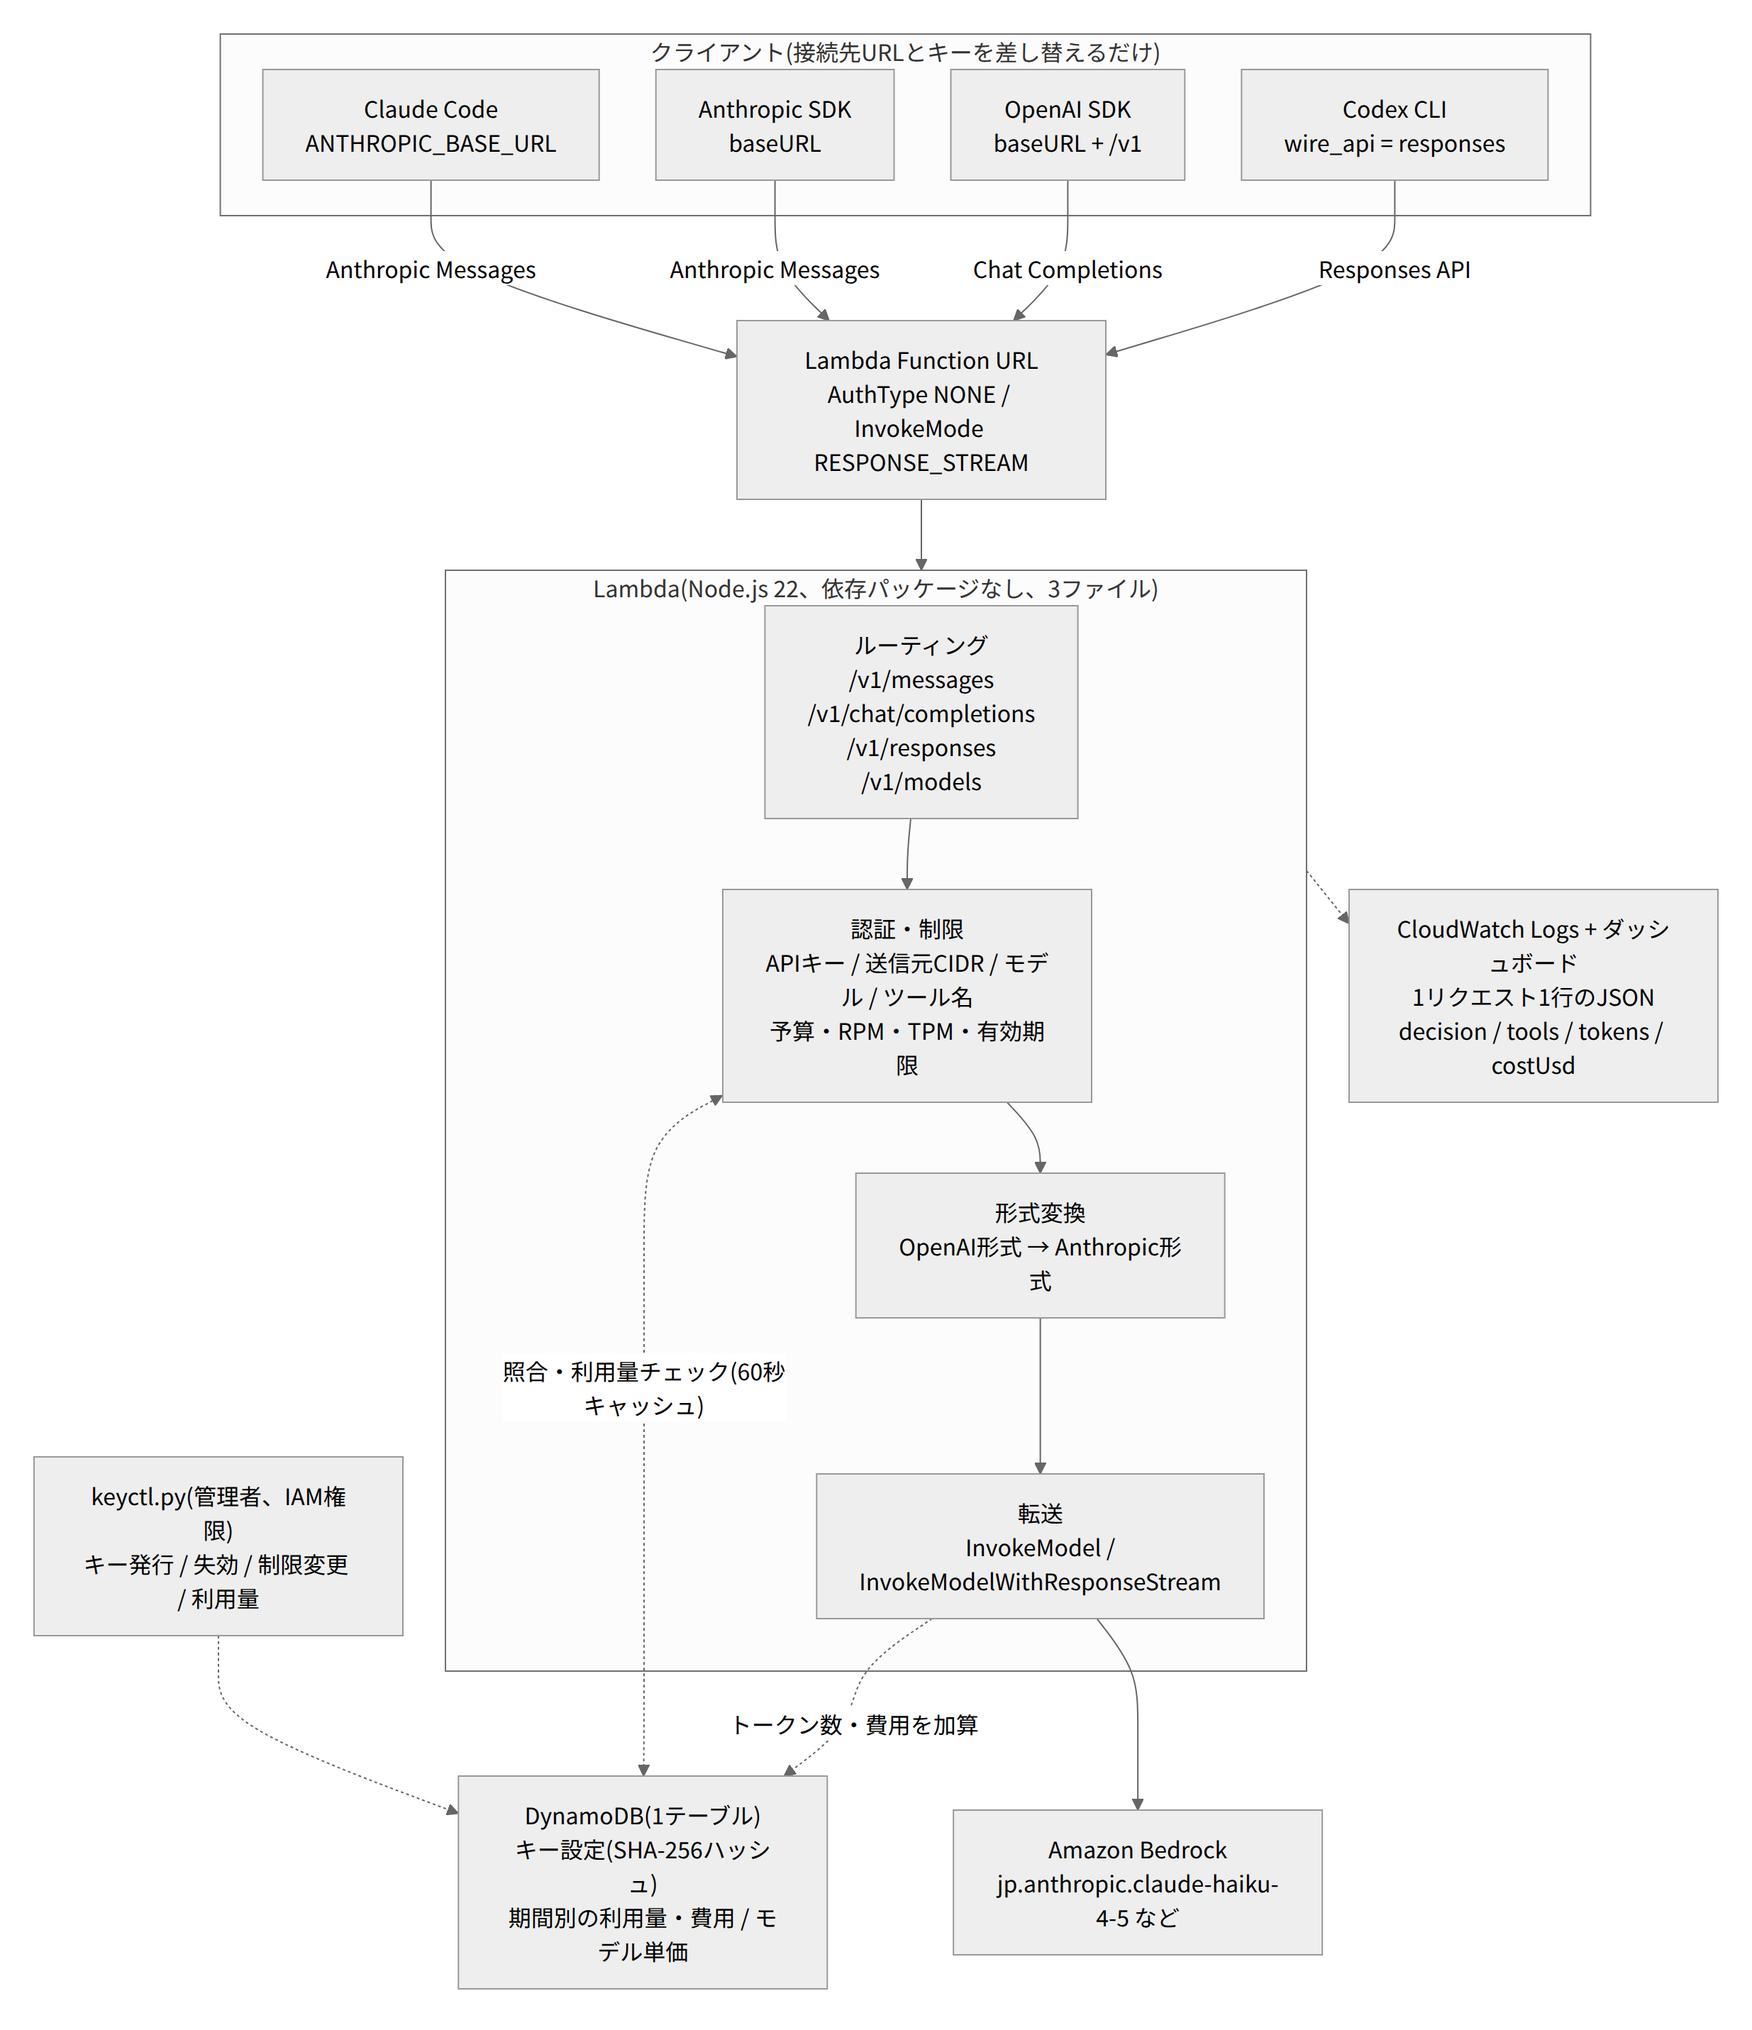
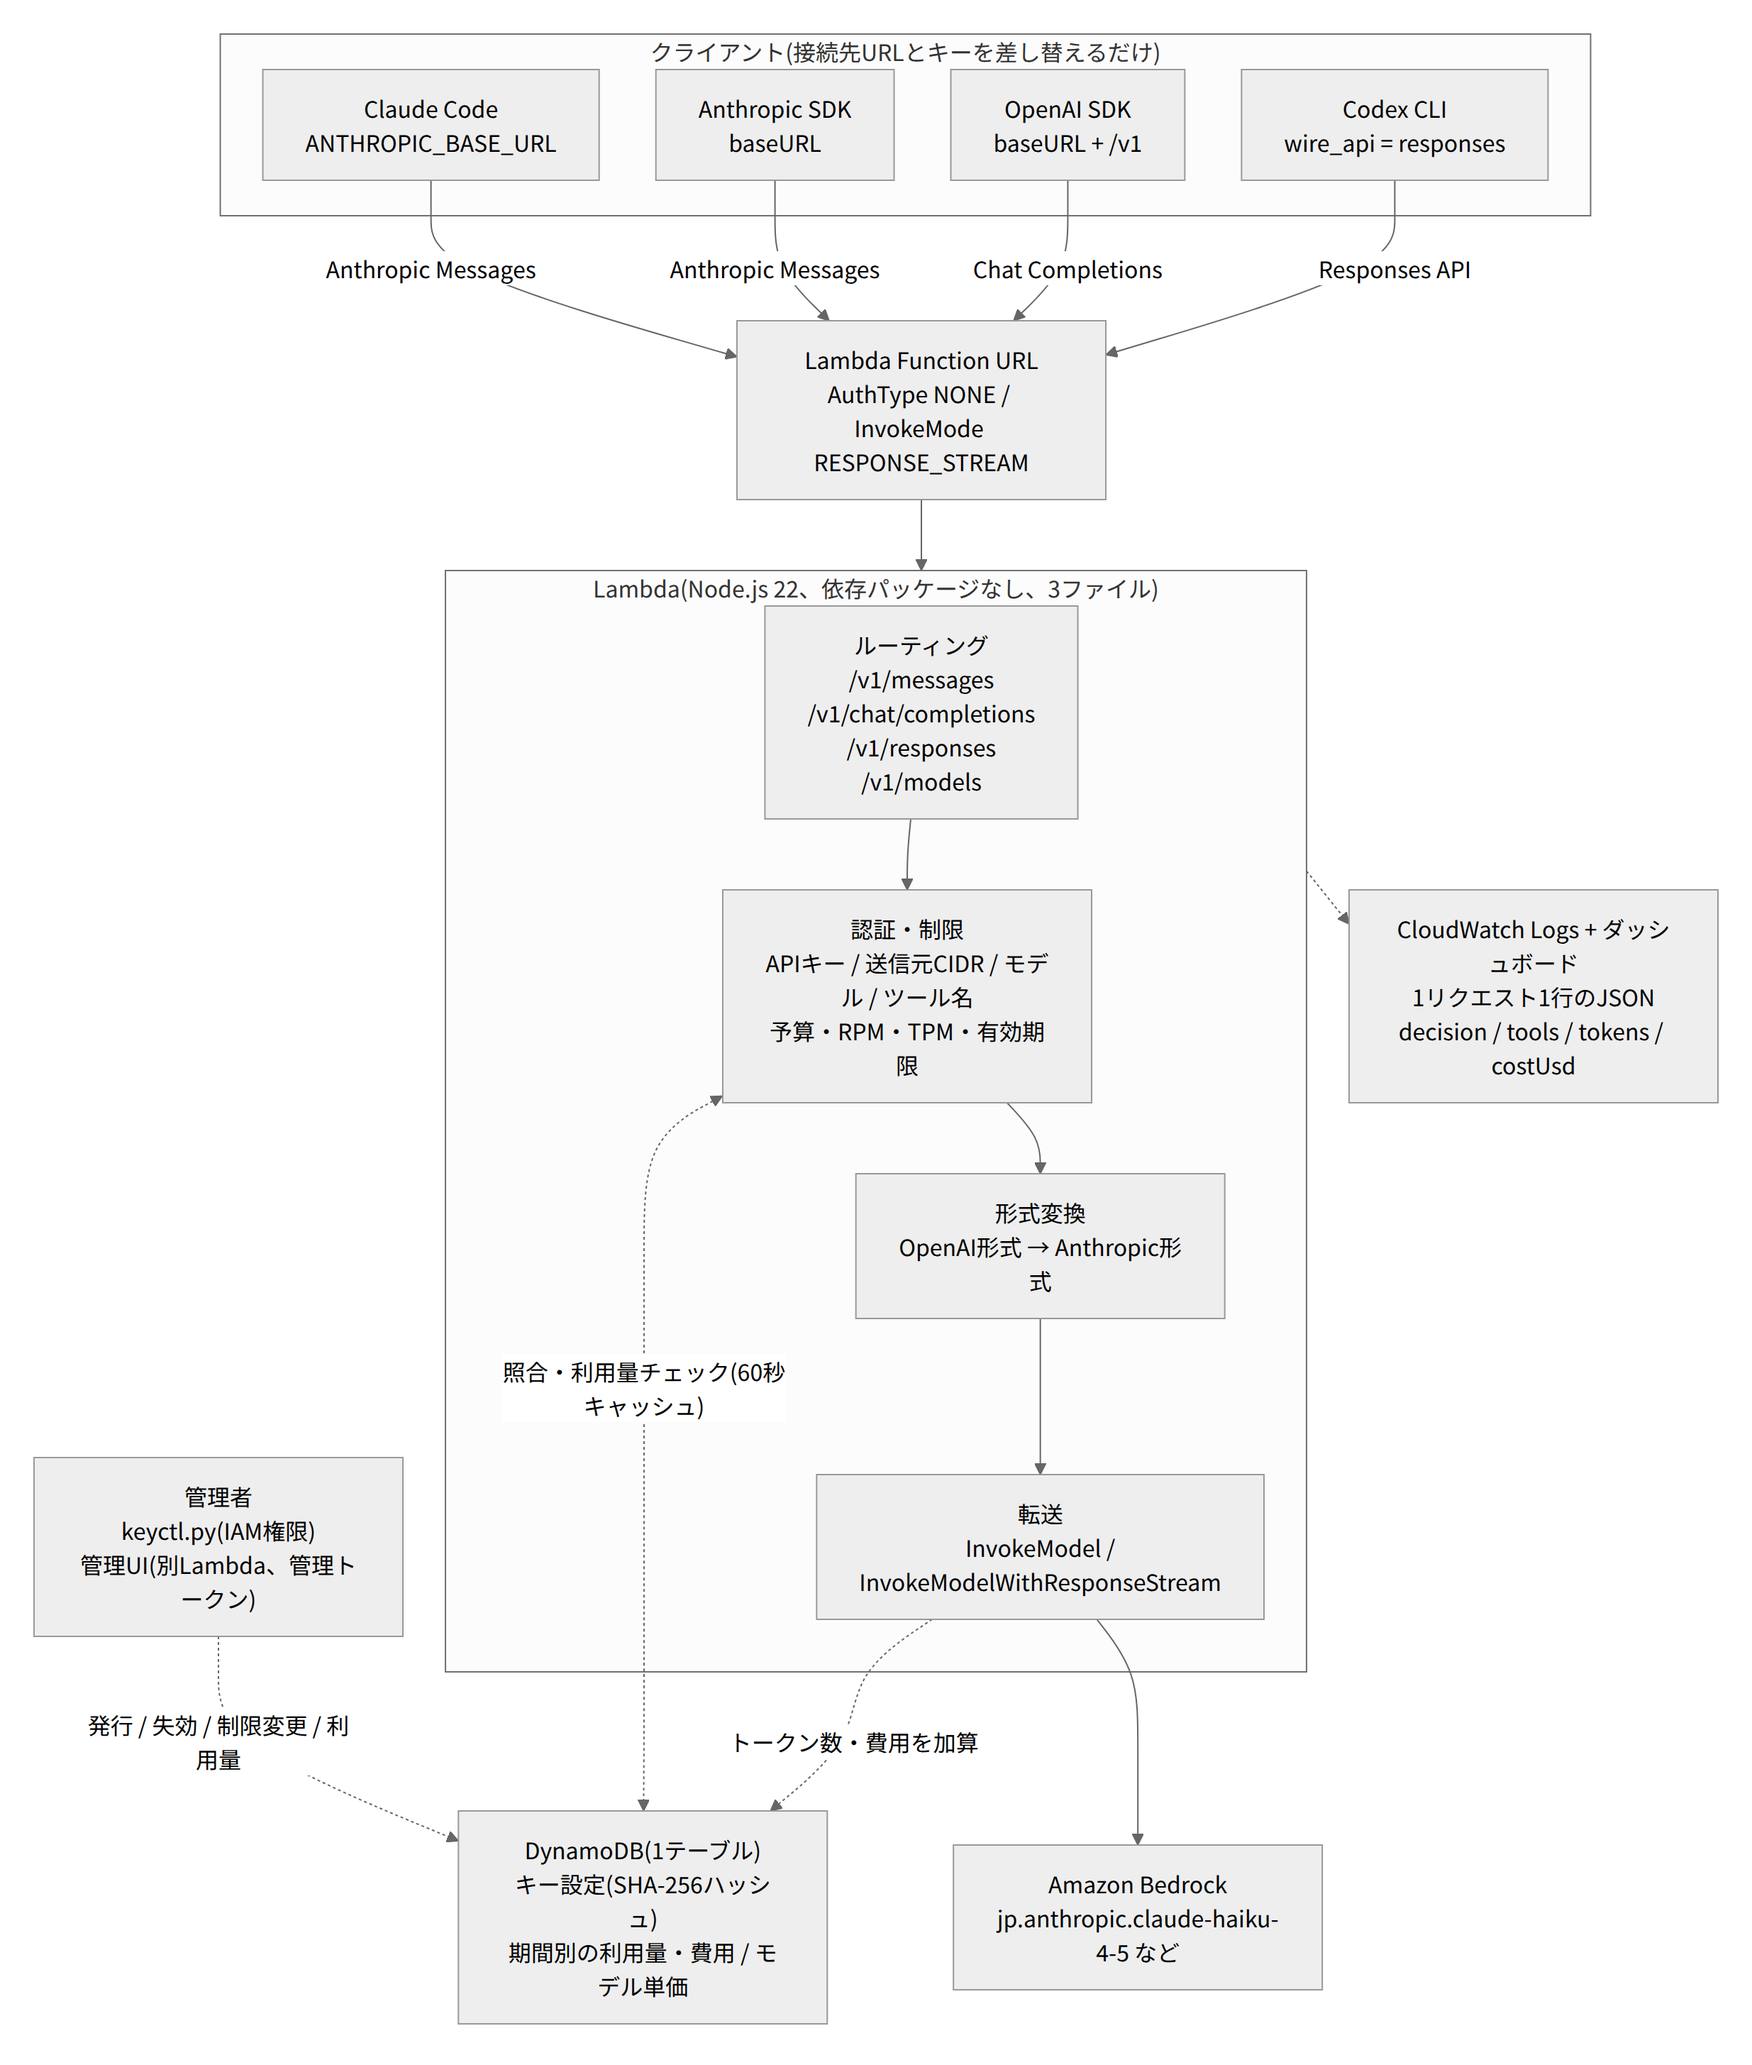
Add admin UI (separate Lambda + Function URL): key issuance, limits, usage, prices
- admin.mjs: JSON API with admin token (SHA-256, constant-time compare), optional source CIDR
- admin-ui.mjs: single-file HTML, no framework/build/CDN
- terraform/admin.tf: Lambda, Function URL, IAM (PutItem/DeleteItem only here)
- keyctl.py admin-token; README and diagrams updated

diff --git a/keyctl.py b/keyctl.py
@@ -12,6 +12,7 @@
   keyctl.py usage <keyId> [--period month#2026-10 | day#2026-10-30]
   keyctl.py set-prices  modelId=inputPerM:outputPerM[,...]     例: jp.anthropic.claude-haiku-4-5-20251001-v1:0=1.1:5.5
   keyctl.py import keys.json        旧形式(平文キー → 設定)の JSON を取り込む(同じ平文キーのまま使える)
+  keyctl.py admin-token             管理 UI 用のトークンを発行(ハッシュを保存。平文はこの 1 回だけ表示。再実行で置き換え)
 
 共通オプション: --table llm-proxy-keys --region ap-northeast-1 --profile NAME
 """
@@ -162,6 +163,12 @@ def cmd_import(a):
         if cfg.get("cidrs"): meta["cidrs"] = cfg["cidrs"]
         put_meta(a, meta); print(f"imported {meta['keyId']} ({meta['name']})")
 
+def cmd_admin_token(a):
+    token = "llmpa_" + secrets.token_hex(24)
+    aws(["put-item", "--table-name", a.table, "--item", json.dumps({"pk": {"S": "CONFIG"}, "sk": {"S": "ADMIN"}, "tokenHash": {"S": hash_key(token)}, "updatedAt": {"N": str(int(time.time()))}})], a)
+    print("admin token set (shown once, store it securely). 管理 UI のログイン画面に貼り付ける:")
+    print(f"  {token}")
+
 def main():
     ap = argparse.ArgumentParser(description=__doc__, formatter_class=argparse.RawDescriptionHelpFormatter)
     ap.add_argument("--table", default="llm-proxy-keys"); ap.add_argument("--region"); ap.add_argument("--profile")
@@ -180,6 +187,7 @@ def main():
     p = sub.add_parser("usage"); p.add_argument("key_id"); p.add_argument("--period"); p.set_defaults(fn=cmd_usage)
     p = sub.add_parser("set-prices"); p.add_argument("prices"); p.set_defaults(fn=cmd_set_prices)
     p = sub.add_parser("import"); p.add_argument("file"); p.set_defaults(fn=cmd_import)
+    sub.add_parser("admin-token").set_defaults(fn=cmd_admin_token)
     a = ap.parse_args(); a.fn(a)
 
 if __name__ == "__main__":

diff --git a/README.md b/README.md
@@ -11,10 +11,13 @@ Amazon Bedrock に転送する簡易 LLM プロキシです。Claude Code、Anth
 - リクエストごとにモデル単価から費用を計算して DynamoDB に集計(分・日・月)。ログにも `costUsd` を出す
 - 1 リクエスト 1 行の JSON ログを CloudWatch Logs に出力(キー名、モデル、ツール名、トークン数、判定理由)
 - 利用状況の可視化: CloudWatch ダッシュボード(Terraform で作成)と、Markdown の利用レポートを出す `usage-report.py`
+- 管理 UI: キーの発行・編集・無効化・失効、キー別の今月の利用量と推定費用、モデル単価の編集。別 Lambda + Function URL が HTML と JSON API を返す(フレームワーク・ビルド・CDN なし)
 
 ![構成図](docs/architecture.png)
 
 ![利用状況ダッシュボード](docs/dashboard.png)
+
+![管理 UI](docs/admin-ui.png)
 
 設計と検証の経緯は Zenn の記事「Lambda+Bedrockで作る簡易LLMプロキシ(認証・制限・ログ)」にまとめています。
 
@@ -27,7 +30,8 @@ Amazon Bedrock に転送する簡易 LLM プロキシです。Claude Code、Anth
 | `terraform/` | Lambda、Function URL、IAM、DynamoDB(キーと利用量)、CloudWatch Logs、利用状況ダッシュボードの定義 |
 | `usage-report.py` | Logs Insights からキー別・モデル別の利用状況と拒否理由を集計して Markdown 出力 |
 | `src/keys.mjs` | API キーの照合(SHA-256)、利用量制限の判定、費用計算、利用量の記録(DynamoDB) |
-| `keyctl.py` | API キーの発行・一覧・更新・無効化・失効・利用量表示・モデル単価の設定・旧 JSON の取り込み |
+| `keyctl.py` | API キーの発行・一覧・更新・無効化・失効・利用量表示・モデル単価の設定・旧 JSON の取り込み・管理 UI トークンの発行 |
+| `src/admin.mjs` / `src/admin-ui.mjs` | 管理 UI(JSON API と単一ファイルの HTML)。管理トークン(SHA-256 ハッシュ保存)と任意の送信元 CIDR で保護 |
 | `keys.example.json` | 旧形式(平文キー → 設定)の例。`keyctl.py import` で取り込める |
 | `cost-estimate.py` | 月額ランニングコストの試算スクリプト(単価と前提はファイル内に記載) |
 | `docs/` | 構成図・シーケンス図(PNG と Mermaid ソース) |
@@ -71,6 +75,8 @@ terraform apply -var 'allowed_betas=context-management-2025-06-27,interleaved-th
 | `log_retention_days` | `30` | CloudWatch Logs の保持日数 |
 | `memory_size` / `timeout` | `256` / `300` | Lambda のメモリ(MB)とタイムアウト(秒) |
 | `create_dashboard` | `true` | 利用状況ダッシュボードを作るか |
+| `create_admin_ui` | `true` | 管理 UI(別 Lambda + Function URL)を作るか |
+| `admin_cidrs` | 空 | 管理 UI にアクセスできる送信元 CIDR(カンマ区切り)。トークン認証は常に必要 |
 
 ## API キーの発行と利用量制限(`keyctl.py`)
 
@@ -122,6 +128,31 @@ python3 keyctl.py import keys.json          # 旧形式の JSON(平文キー →
 - 渡されたツール名(`tools.0`〜`tools.4`、先頭 5 個の組み合わせ)
 
 アカウント内のカスタムダッシュボードは 3 枚まで無料、4 枚目以降は 1 枚 $3/月。ウィジェットの描画時に Logs Insights のスキャン課金がかかる(東京: $0.0076/GB)。
+
+### 管理 UI(`<name>-admin`)
+
+`terraform output admin_url` の URL をブラウザで開き、`keyctl.py admin-token` で発行した管理トークンを貼り付けます。トークンは sessionStorage にだけ保存され、タブを閉じると消えます。
+
+```bash
+python3 keyctl.py admin-token   # 平文はこのとき 1 回だけ表示。再実行で置き換え
+```
+
+- キー一覧: 状態(有効 / 無効 / 期限切れ)、モデル、ツール制限、CIDR、制限、今月のリクエスト数・トークン数・推定費用、予算消化率、有効期限
+- キーの発行(平文は発行直後に 1 回だけ表示)、編集、無効化 / 有効化、失効
+- キーごとの期間別利用量(日・月)
+- モデル単価の編集
+
+管理 UI の Lambda は、プロキシ本体とは別の IAM ロールで動きます(本体は GetItem / BatchGetItem / UpdateItem のみ、管理 UI は Scan / Query / PutItem / DeleteItem も持つ)。
+公開 URL なので、`admin_cidrs` でオフィスや VPN の送信元に絞ることを推奨します。より強い認証が必要なら、Function URL を `AWS_IAM` にして CloudFront + Lambda@Edge や Cognito を前に置く構成に差し替えられます。
+
+JSON API(`Authorization: Bearer <admin token>`):
+
+| メソッド | パス | 内容 |
+| --- | --- | --- |
+| GET | `/api/keys` | 一覧 + 今月の利用量 |
+| POST | `/api/keys` | 発行(応答に平文 `key`) |
+| GET / PATCH / DELETE | `/api/keys/{keyId}` | 詳細(期間別利用量)/ 更新 / 失効 |
+| GET / PUT | `/api/prices` | モデル単価 |
 
 ### 利用レポート(`usage-report.py`)
 
